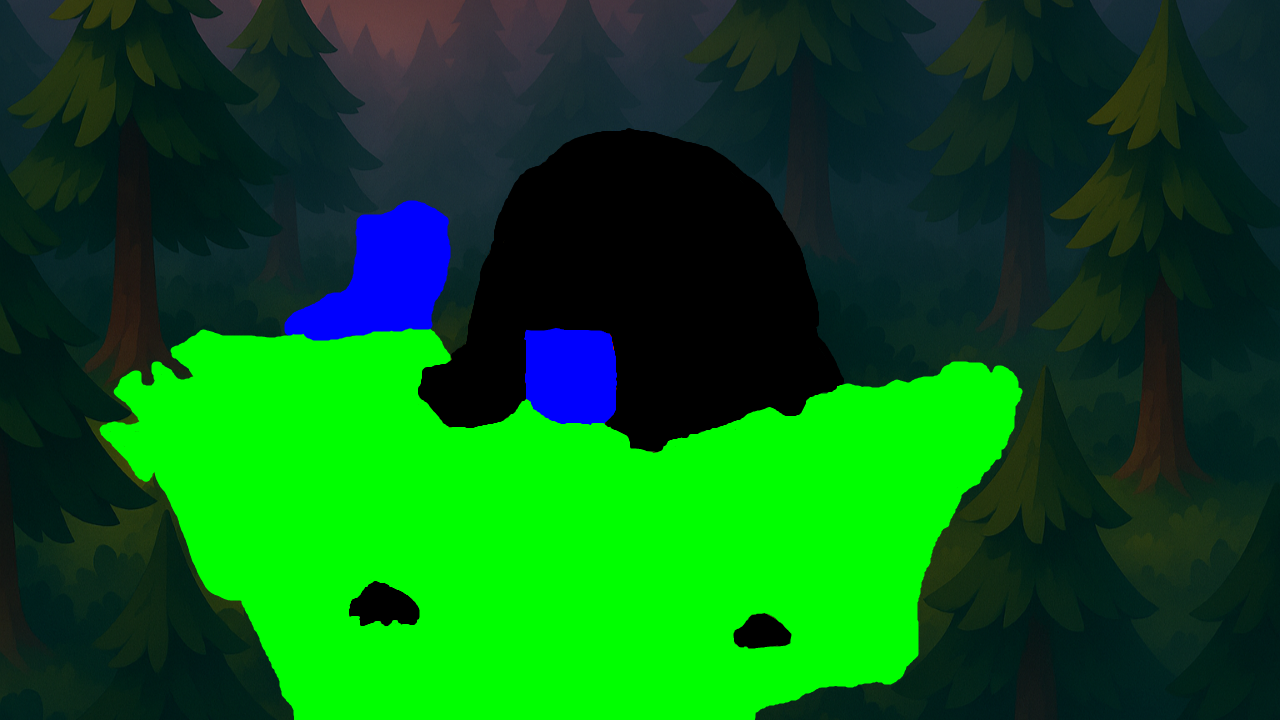
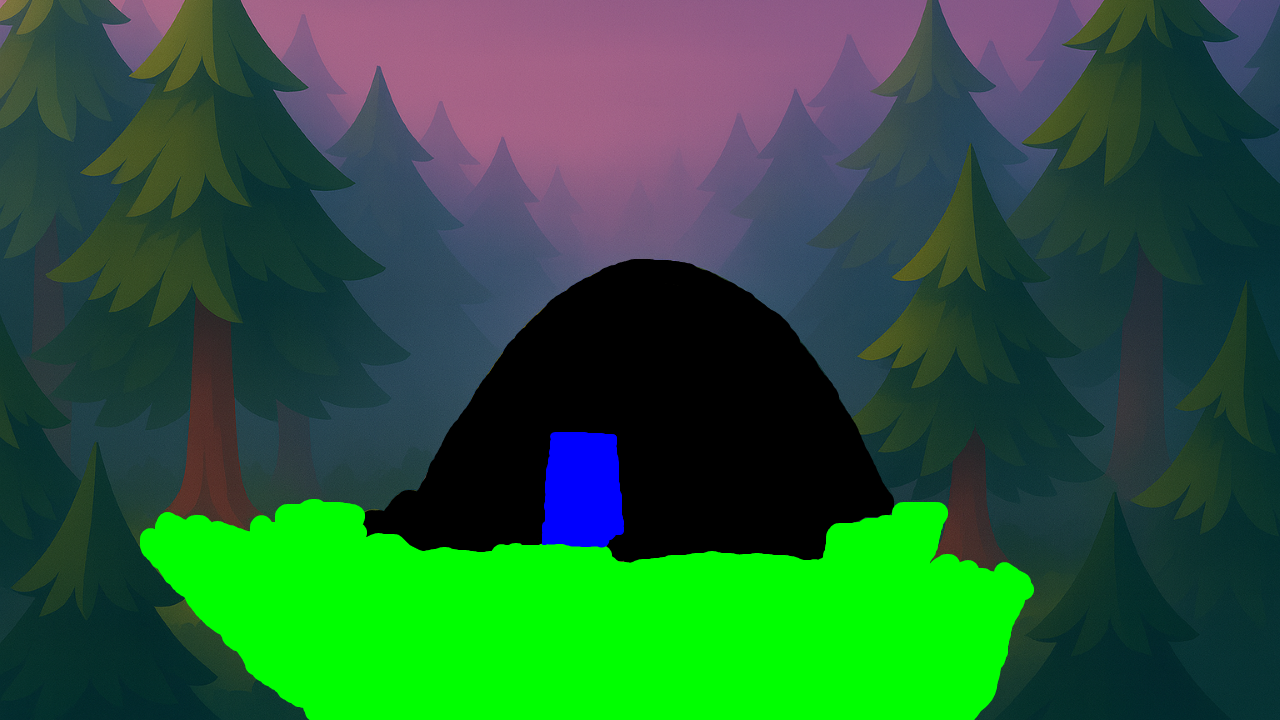
change scen2 bg

diff --git a/js/scenes/Scene2_Crossroads.js b/js/scenes/Scene2_Crossroads.js
@@ -228,7 +228,7 @@ class Scene2_Crossroads extends GameScene {
         this.showFeedbackBubble("Vi vågar inte gå ner än, Max verkar inte klar med detta område…");
     }
 
-    // Override handleTransitionClick to handle two blue zones
+    // Override handleTransitionClick - single blue zone (tomb entrance)
     handleTransitionClick(x, y) {
 
         // Block if dialog is already active
@@ -236,51 +236,16 @@ class Scene2_Crossroads extends GameScene {
             return;
         }
 
-        // BLUE ZONE 1: Left area - placeholder message
-        // x between 150 and 400, y between 250 and 550
-        if (x >= 150 && x <= 400 && y >= 250 && y <= 550) {
-
-            // Play click sound
-            const audioManager = this.registry.get('audioManager');
-            if (audioManager) {
-                audioManager.playClick();
-            }
-
-            this.showValidClickIndicator(x, y);
-
-            // Show speech bubble over player with placeholder message
-            const bubble = new SpeechBubble(
-                this,
-                this.player.x,
-                this.player.y,
-                'Finns inget här än, hoppas det kommer en uppdatering så vi ej är fast här',
-                3000,  // Auto-destroy after 3 seconds
-                this.player  // Follow the player
-            );
-
-            return;
+        // Play click sound
+        const audioManager = this.registry.get('audioManager');
+        if (audioManager) {
+            audioManager.playClick();
         }
 
-        // BLUE ZONE 2: Middle zone at tomb entrance
-        // x between 500 and 780, y between 260 and 530
-        if (x >= 500 && x <= 780 && y >= 260 && y <= 530) {
+        this.showValidClickIndicator(x, y);
 
-            // Play click sound
-            const audioManager = this.registry.get('audioManager');
-            if (audioManager) {
-                audioManager.playClick();
-            }
-
-            this.showValidClickIndicator(x, y);
-
-            // Start tomb entrance sequence
-            this.startTombEntranceSequence(x, y);
-            return;
-        }
-
-        // Blue zone but not matching any defined zone - fallback
-        this.showNoPathIndicator(x, y);
-        this.showFeedbackBubble("Det verkar inte finnas någon väg där.");
+        // ANY blue click triggers tomb entrance (mask now has only one blue zone)
+        this.startTombEntranceSequence(x, y);
     }
 
     // Start tomb entrance sequence (similar to runestone in Scene1)

diff --git a/UP NEXT.md b/UP NEXT.md
@@ -1,8 +1,7 @@
-Still som click bugs if "stay here on scene 1" and exiting tomb
-
 SCEN 1 - Byt tet i bubblan (kan inte stå följer efter)
 
 SCEN 2 - lägg på overlay här också, samt ta bort stigar!!
+update transit position frpm all dircetions
 
 SCEN 3
 UPPDATERA BUBBLES TILL SVENSKAare
